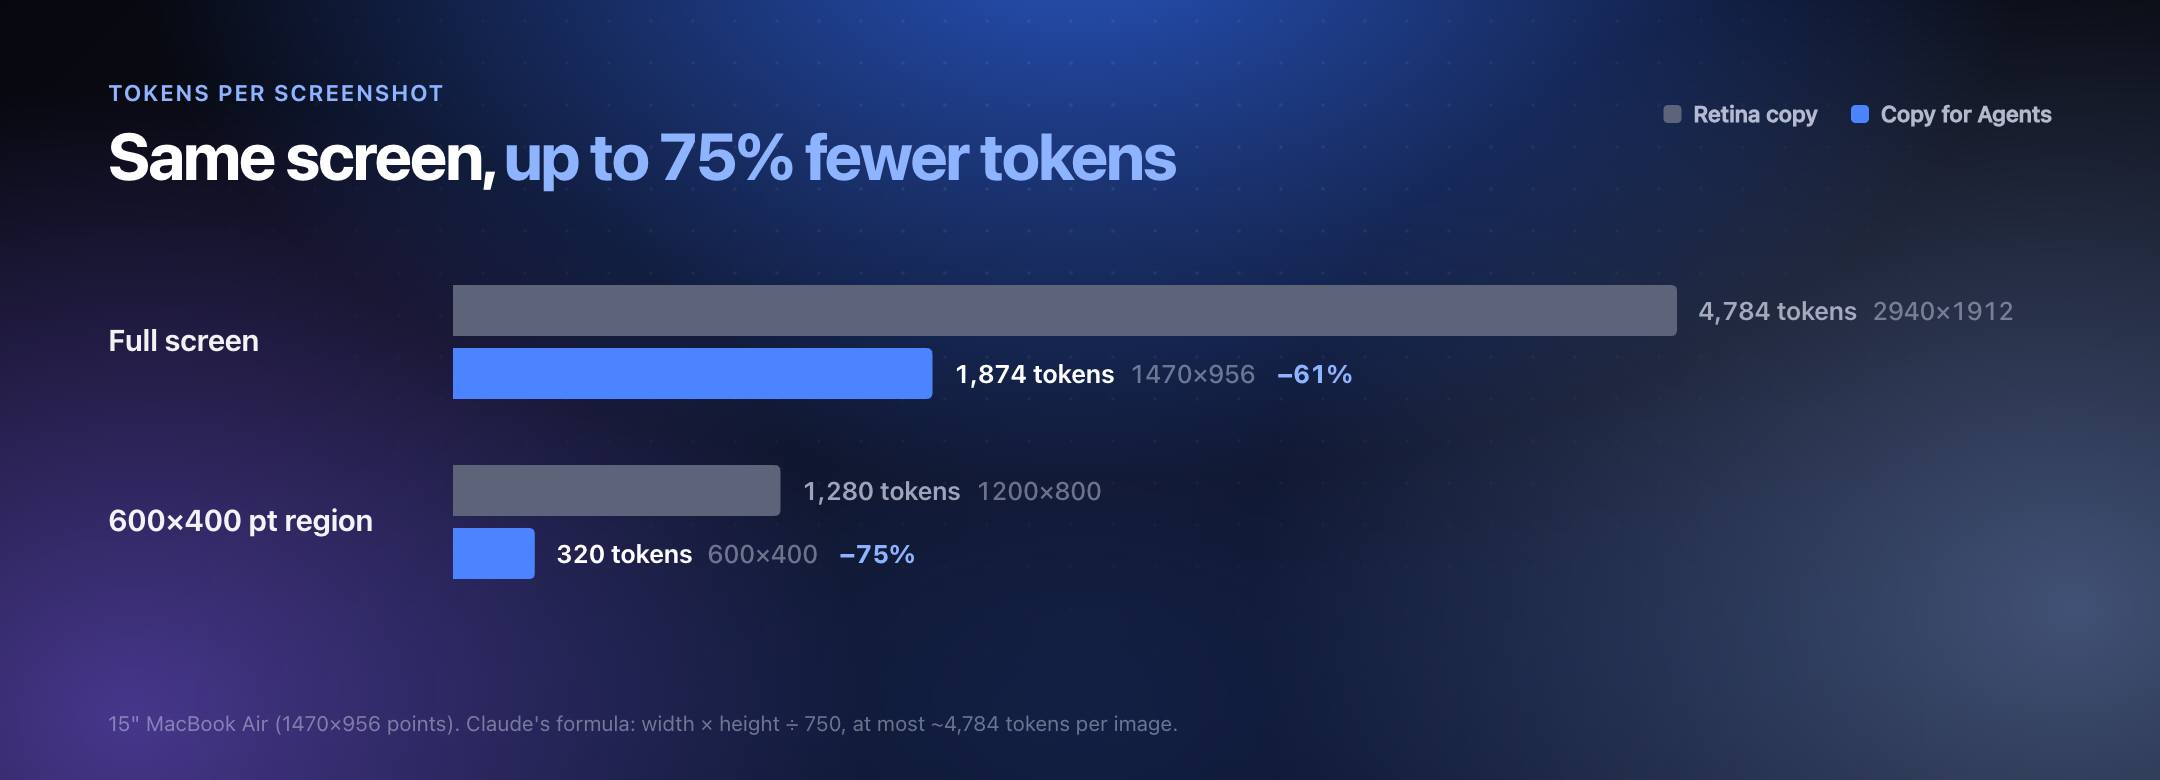
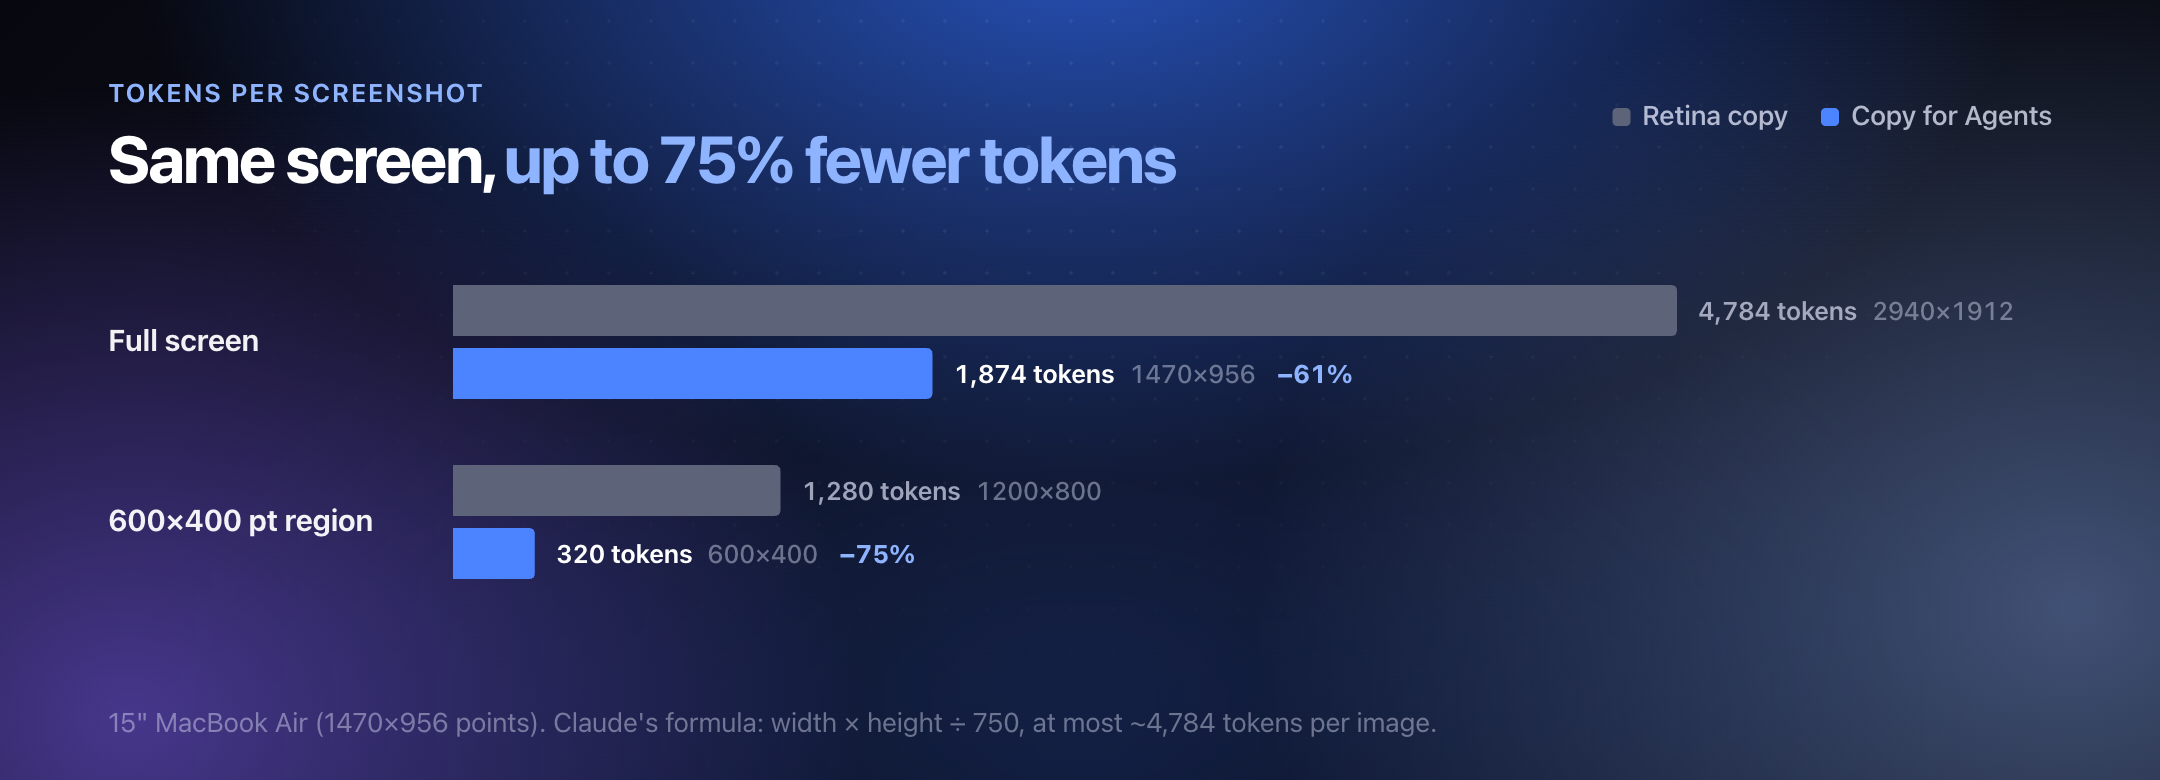
README charts: larger labels for GitHub's 880 px width

diff --git a/Marketing/readme/charts-legibility.html b/Marketing/readme/charts-legibility.html
@@ -32,7 +32,7 @@ const pick = cols.findIndex((c) => c.pick);
 el(s, 'rect', { x: axisW + colW * pick + 8, y: -8, width: colW - 16, height: topH + gapH + botH + axisH + 4, rx: 12, fill: 'rgba(76,132,255,.12)', stroke: 'rgba(143,180,255,.35)' });
 const firstBad = cols.findIndex((c) => c.bad);
 el(s, 'rect', { x: axisW + colW * firstBad + 8, y: -8, width: colW * (cols.length - firstBad) - 16, height: topH + 8, rx: 12, fill: 'rgba(255,122,107,.07)' });
-el(s, 'text', { x: axisW + colW * firstBad + colW, y: 22, fill: C.danger, 'font-size': 15, 'font-weight': 650, 'text-anchor': 'middle' }, 'Starts misreading');
+el(s, 'text', { x: axisW + colW * firstBad + colW, y: 22, fill: C.danger, 'font-size': 17, 'font-weight': 650, 'text-anchor': 'middle' }, 'Starts misreading');
 
 // Top: correct answers (line, 36 to 46).
 const yMin = 36, yMax = 46, yTop = (v) => 34 + (1 - (v - yMin) / (yMax - yMin)) * (topH - 50);
@@ -40,7 +40,7 @@ el(s, 'text', { x: 0, y: 30, fill: C.ink, 'font-size': 19, 'font-weight': 650 },
 el(s, 'text', { x: 0, y: 54, fill: C.ink3, 'font-size': 15 }, 'out of 46');
 [38, 42, 46].forEach((v) => {
   el(s, 'line', { x1: axisW, x2: W, y1: yTop(v), y2: yTop(v), stroke: C.grid });
-  el(s, 'text', { x: axisW - 14, y: yTop(v) + 5, fill: C.ink3, 'font-size': 14, 'text-anchor': 'end' }, v);
+  el(s, 'text', { x: axisW - 14, y: yTop(v) + 5, fill: C.ink3, 'font-size': 17, 'text-anchor': 'end' }, v);
 });
 el(s, 'polyline', { points: cols.map((c, i) => `${cx(i)},${yTop(c.right)}`).join(' '), fill: 'none', stroke: C.accent, 'stroke-width': 2.5, 'stroke-linejoin': 'round' });
 cols.forEach((c, i) => {
@@ -62,7 +62,7 @@ cols.forEach((c, i) => {
 // Shared x axis.
 cols.forEach((c, i) => {
   el(s, 'text', { x: cx(i), y: base + 28, fill: c.pick ? '#fff' : C.ink2, 'font-size': 18, 'font-weight': 700, 'text-anchor': 'middle' }, c.ppp);
-  if (c.label) el(s, 'text', { x: cx(i), y: base + 50, fill: c.pick ? C.accentText : C.ink3, 'font-size': 14, 'font-weight': 600, 'text-anchor': 'middle' }, c.label);
+  if (c.label) el(s, 'text', { x: cx(i), y: base + 50, fill: c.pick ? C.accentText : C.ink3, 'font-size': 17, 'font-weight': 600, 'text-anchor': 'middle' }, c.label);
 });
 el(s, 'text', { x: 0, y: base + 28, fill: C.ink3, 'font-size': 15 }, 'Pixels per point');
 </script>

diff --git a/Marketing/readme/charts-speed.html b/Marketing/readme/charts-speed.html
@@ -19,16 +19,16 @@ const panels = [
   { name: 'Region', ms: [291, 611, 499, 1017], note: [null, null, '1x only', null] },
   { name: 'Window', ms: [453, 827, null, 5527] },
 ];
-const W = 1296, gutter = 48, panelW = (W - gutter * 2) / 3, nameW = 128, barH = 26, gap = 12, cap = 1200;
+const W = 1296, gutter = 48, panelW = (W - gutter * 2) / 3, nameW = 142, barH = 26, gap = 12, cap = 1200;
 const s = svg(document.getElementById('plot'), W, 44 + tools.length * (barH + gap));
 panels.forEach((p, pi) => {
   const x0 = pi * (panelW + gutter), bx = x0 + nameW, bw = panelW - nameW - 92;
   el(s, 'text', { x: x0, y: 18, fill: C.ink, 'font-size': 20, 'font-weight': 700 }, p.name);
   tools.forEach((t, ti) => {
     const y = 40 + ti * (barH + gap), v = p.ms[ti], me = ti === 0;
-    el(s, 'text', { x: bx - 12, y: y + barH / 2 + 5, fill: me ? '#fff' : C.ink2, 'font-size': 15, 'font-weight': me ? 700 : 550, 'text-anchor': 'end' }, t);
+    el(s, 'text', { x: bx - 12, y: y + barH / 2 + 5, fill: me ? '#fff' : C.ink2, 'font-size': 17, 'font-weight': me ? 700 : 550, 'text-anchor': 'end' }, t);
     if (v == null) {
-      el(s, 'text', { x: bx, y: y + barH / 2 + 5, fill: C.ink3, 'font-size': 15, 'font-style': 'italic' }, 'not supported');
+      el(s, 'text', { x: bx, y: y + barH / 2 + 5, fill: C.ink3, 'font-size': 17, 'font-style': 'italic' }, 'not supported');
       return;
     }
     const broken = v > cap, w = (Math.min(v, cap) / cap) * bw;
@@ -38,7 +38,7 @@ panels.forEach((p, pi) => {
       const bx2 = bx + w - 34;
       el(s, 'path', { d: `M${bx2},${y - 3} l8,${barH + 6} M${bx2 + 9},${y - 3} l8,${barH + 6}`, stroke: '#0d0f1d', 'stroke-width': 5 });
     }
-    const label = el(s, 'text', { x: bx + w + 10, y: y + barH / 2 + 5, fill: me ? '#fff' : C.ink2, 'font-size': 15, 'font-weight': me ? 750 : 600 }, `${fmt(v)} ms`);
+    const label = el(s, 'text', { x: bx + w + 10, y: y + barH / 2 + 5, fill: me ? '#fff' : C.ink2, 'font-size': 17, 'font-weight': me ? 750 : 600 }, `${fmt(v)} ms`);
     if (p.note?.[ti]) el(label, 'tspan', { fill: C.ink3, 'font-weight': 500, dx: 8 }, p.note[ti]);
   });
 });

diff --git a/Marketing/readme/charts.css b/Marketing/readme/charts.css
@@ -3,12 +3,12 @@ html, body { height: auto; }
 .shot.chart { --a: #3370ff; --a2: #8fb4ff; --a3: #7a5cf0; height: var(--h, 640px); }
 .chart .bg::after { top: 120px; opacity: .45; }
 .chart .head { position: absolute; left: 72px; right: 72px; top: 52px; }
-.chart .kicker { font-size: 15px; font-weight: 650; letter-spacing: .08em; text-transform: uppercase; color: var(--a2); }
+.chart .kicker { font-size: 17px; font-weight: 650; letter-spacing: .08em; text-transform: uppercase; color: var(--a2); }
 .chart h2 { margin-top: 10px; font-size: 44px; line-height: 1.08; font-weight: 750; letter-spacing: -.035em; color: #fff; }
 .chart h2 .hl { color: var(--a2); }
-.chart .note { position: absolute; left: 72px; right: 72px; bottom: 30px; font-size: 14px; color: rgba(232,236,255,.42); }
+.chart .note { position: absolute; left: 72px; right: 72px; bottom: 28px; font-size: 18px; color: rgba(232,236,255,.42); }
 .chart .plot { position: absolute; left: 72px; right: 72px; }
 .chart svg { display: block; overflow: visible; font-family: -apple-system, "SF Pro Text", system-ui, sans-serif; }
 .chart svg text { font-variant-numeric: tabular-nums; }
-.legend { position: absolute; right: 72px; top: 66px; display: flex; gap: 22px; font-size: 15px; font-weight: 550; color: rgba(232,236,255,.75); }
+.legend { position: absolute; right: 72px; top: 66px; display: flex; gap: 22px; font-size: 18px; font-weight: 550; color: rgba(232,236,255,.75); }
 .legend i { display: inline-block; width: 12px; height: 12px; border-radius: 3px; margin-right: 8px; vertical-align: -1px; }
